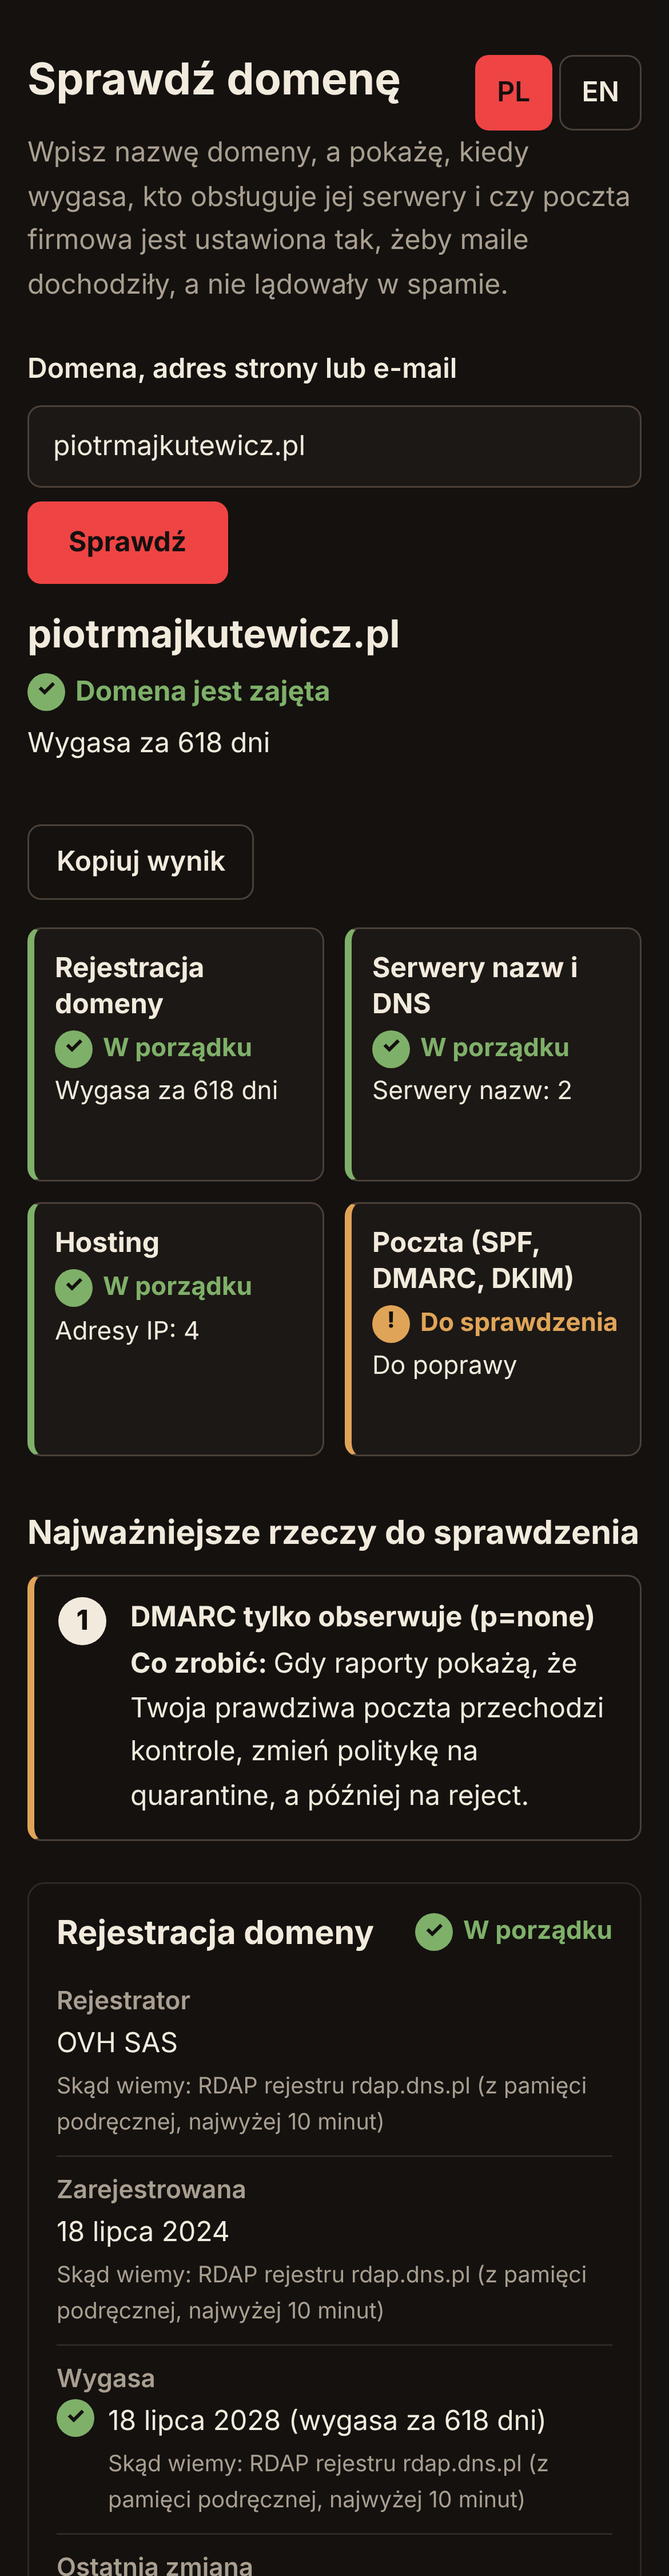
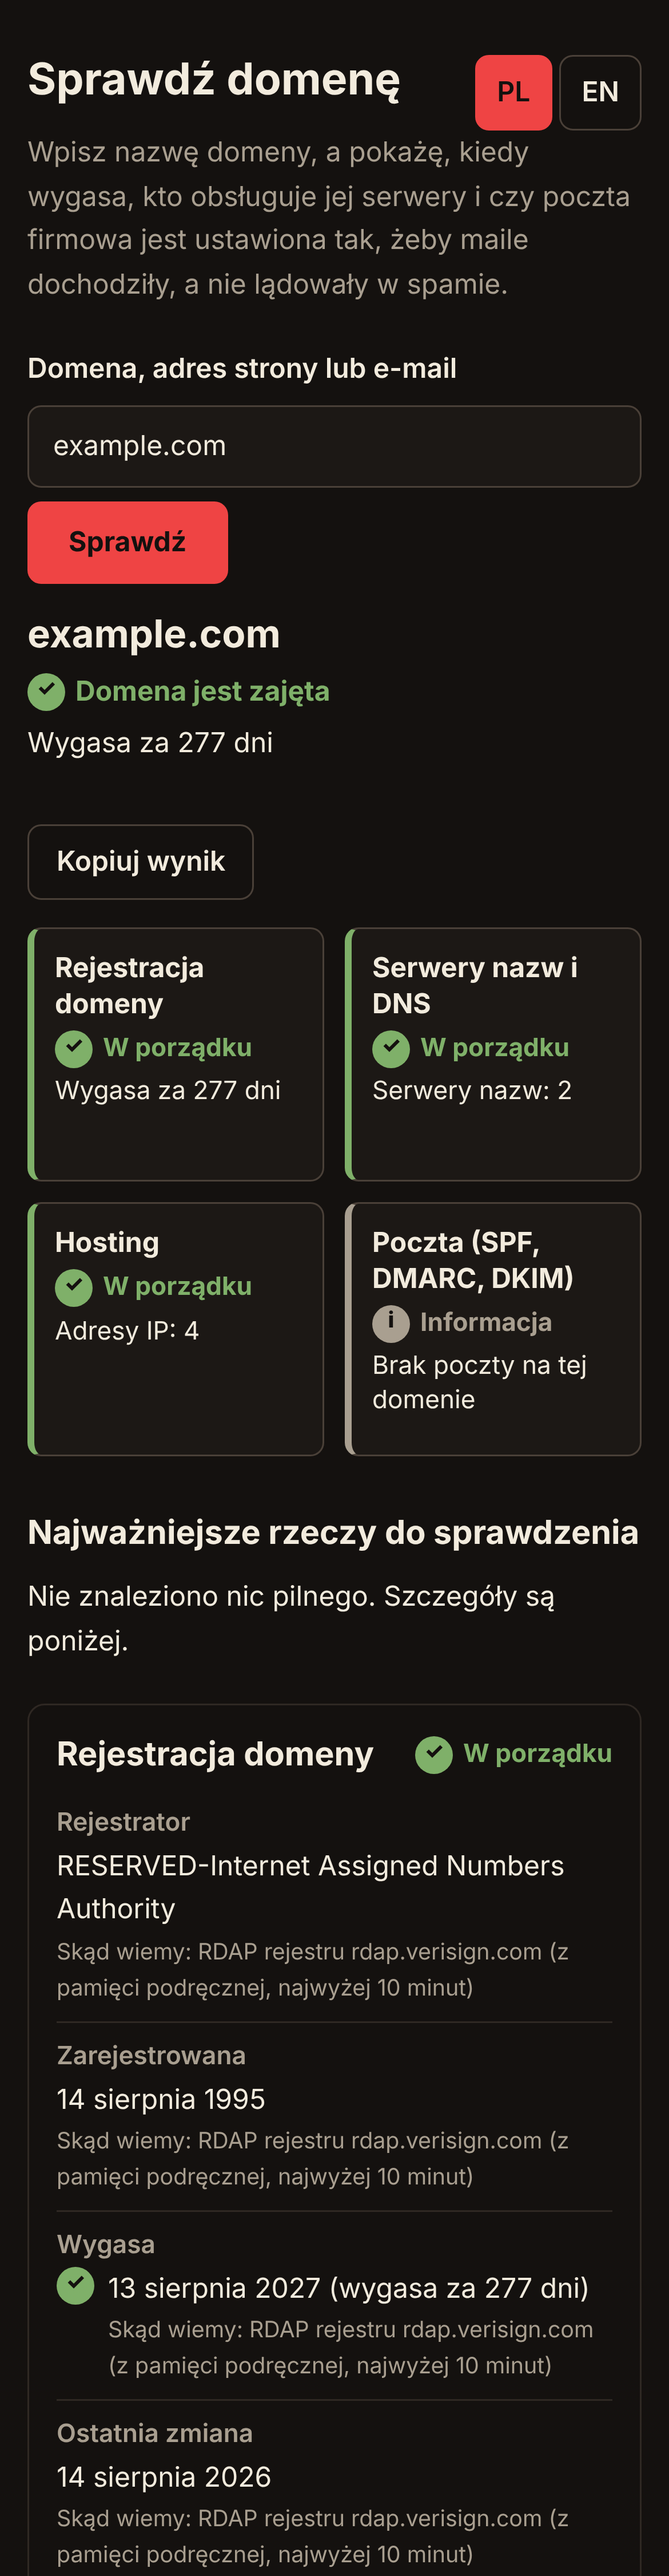
Document the registry link and use example.com in the screenshots

diff --git a/README.md b/README.md
@@ -2,7 +2,7 @@
 
 A small Cloudflare Worker that takes a domain name (or a pasted web address or e-mail) and answers, in plain language: is the domain registered and when does it expire, who runs its name servers, which networks it points to, and is the company e-mail set up so that messages arrive instead of landing in spam. It is built for a business owner, yet stays honest about what the data can and cannot prove.
 
-![The UI showing a result for piotrmajkutewicz.pl](docs/ui.png)
+![The UI showing a result for example.com](docs/ui.png)
 
 It is a portfolio project by Piotr Majkutewicz (full-stack developer and solution architect working with small businesses and startups): a conversation starter, not a replacement for a professional review.
 
@@ -51,6 +51,8 @@ Registries rate-limit. NASK (`rdap.dns.pl`, `.pl`) answered with HTTP 429 after 
 - "not found" is only believed when the registry answers 404 with a JSON body; an HTML 404 or any other error is reported as "could not get data", never as "free". Even a real "not found" is worded as "looks available".
 
 Endings without an RDAP service (not in the bootstrap file) get an honest "this registry does not share data through RDAP", and DNS is still shown.
+
+For these two cases (`unsupported` and `rate_limited`) the registration card also offers a link, "Information about the .xx registry (IANA)", opened in a new tab with `rel="noopener noreferrer"`. It points to the IANA page of the ending (`https://www.iana.org/domains/root/db/<tld>.html`), which names the registry and links to it. Registry addresses are deliberately not guessed per ending, and the link is not a search result for the domain: the page says so. The address is built only from the validated ending of the checked domain (letters, or punycode) and sent to the client as `registration.registryUrl`; the page re-validates it before rendering it with the DOM API. The tool itself never sends a request to these pages, it only offers the link.
 
 ## Languages
 
